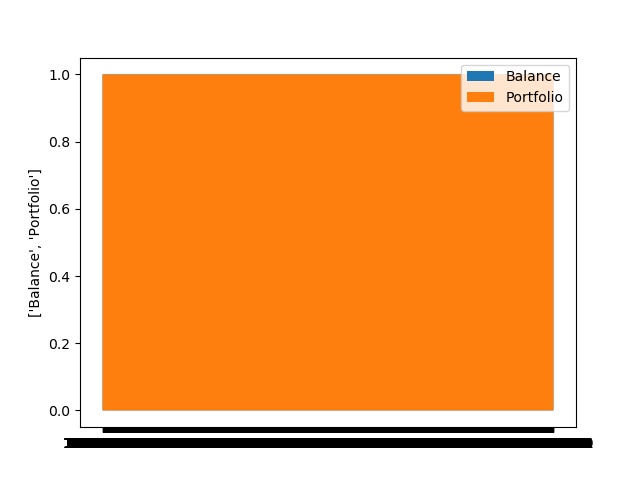
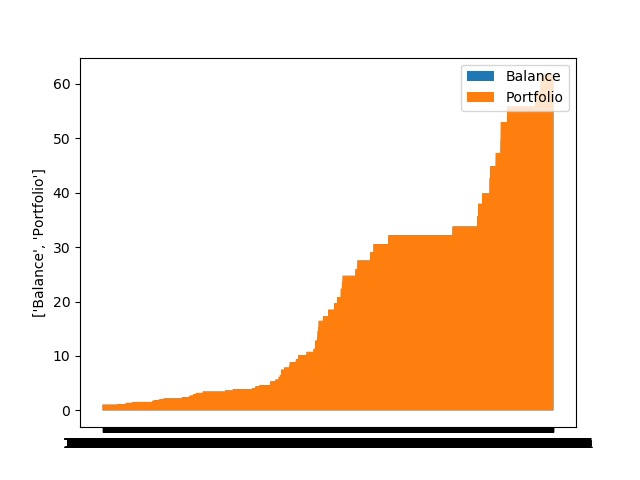
add interday transactions

diff --git a/stock_market.py b/stock_market.py
@@ -17,9 +17,11 @@ class StockProcess:
         if size == 'small':
             self.N_limit = 1000
             self.intraday_par = 1.05
+            self.interday_par = 1.5
         else:
             self.N_limit = 1000000
             self.intraday_par = 1.01
+            self.interday_par = 1.1
         self.N = 0
         self.income = 1
         self.owned_stocks = {}
@@ -51,8 +53,8 @@ class StockProcess:
             # Bypass empty CSVs
             except pd.errors.EmptyDataError:
                 pass
-            # if len(stock_data) > 1000:
-                # break
+            if len(stock_data) > 1000:
+                break
         # Concat DataFrames into one
         self.data = pd.concat(stock_data, axis=0, ignore_index=True)
 
@@ -115,16 +117,15 @@ class StockProcess:
                                 np.floor(self.income / daily['Open']),
                                 np.floor(daily['Limit'] / 2))
         daily['TotalProfit'] = daily['Num'] * daily['Profit']
-        daily = daily[daily['TotalProfit'] + self.income
-                      >= self.intraday_par * self.income]
+        daily = daily[daily['TotalProfit'] + self.portfolio[-1]
+                      >= self.intraday_par * self.portfolio[-1]]
         if daily.shape[0] >= 1:
             trans_info = [daily.iloc[0]['Date'],
                           daily.iloc[0]['Stock'], daily.iloc[0]['Num']]
             self.daily_transactions.append([*trans_info, 'buy-open'])
             self.daily_transactions.append([*trans_info, 'sell-close'])
-            # self.buy(*trans_info, tr_type='buy-open')
-            # self.sell(*trans_info, tr_type='sell-close')
-            print(day, self.income, self.N)
+            self.today_stocks.append(trans_info[1])
+            print(self.today_stocks)
 
     def intraday_reverse(self, day):
         # Filter Stocks that cannot be sold
@@ -145,15 +146,12 @@ class StockProcess:
                           daily.iloc[0]['Stock'], daily.iloc[0]['Num']]
             self.daily_transactions.append([*trans_info, 'buy-open'])
             self.daily_transactions.append([*trans_info, 'sell-close'])
-            print(day, self.income, self.N)
-
-    def non_intraday(self, day):
-        pass
 
     def ordered_transactions(self):
         priority1 = ['buy-open', 'sell-open']
         priority2 = ['buy-low', 'sell-high']
         priority3 = ['buy-close', 'sell-close']
+
         ordered_trans = []
         for trans in self.daily_transactions:
             if trans[3] in priority1:
@@ -165,10 +163,12 @@ class StockProcess:
             if trans[3] in priority3:
                 ordered_trans.append(trans)
         for trans in ordered_trans:
+            print(trans)
             if 'buy' in trans[3]:
                 self.buy(*trans)
             else:
                 self.sell(*trans)
+            print(self.income)
 
     def stats(self, day):
         # Calculate Portfolio per day
@@ -191,21 +191,22 @@ class StockProcess:
         day = min(self.intr_data['Date'])
         day = '1970-01-01'
         date_max = max(self.intr_data['Date'])
-        date_max = '1990-03-01'
+        date_max = '1980-01-01'
         while day <= date_max:
             if day.split('-')[1] == '01' and day.split('-')[2] == '01':
                 year = day.split('-')[0]
                 self.year_processing(year)
-            print(day)
-            self.owned_l = {k: v for (k, v) in self.owned_stocks.items() if v > 0}
+            self.today_stocks = []
+            self.daily_transactions = []
+            owned_ll = self.owned_stocks.items()
+            self.owned_l = {k: v for (k, v) in owned_ll if v > 0}
             self.owned_l = list(self.owned_l.keys())
             self.intr_data = self.intr_data[self.intr_data['Date'] >= day]
             self.daily = self.intr_data[self.intr_data['Date'] == day]
 
-            self.daily_transactions = []
             self.intraday(day)
+            self.check_yearly(day)
             self.intraday_reverse(day)
-            self.non_intraday(day)
             self.ordered_transactions()
             self.stats(day)
 
@@ -222,13 +223,41 @@ class StockProcess:
             stock_data = year_data[year_data['Stock'] == stock]
             if not stock_data.empty:
                 minim = min(stock_data['Low'])
+                stock_low = stock_data[stock_data['Low'] == minim]
+                stock_low = stock_low.iloc[-1]
+                date_min = stock_low['Date']
+                limit_min = stock_low['Limit']
                 maxim = max(stock_data['High'])
-                if minim * 2 <= maxim:
-                    print(stock,minim,maxim)
-                    trans_info = [stock_data.iloc[0]['Date'],
-                                  stock_data.iloc[0]['Stock']]
+                stock_high = stock_data[stock_data['High'] == maxim]
+                stock_high = stock_high.iloc[0]
+                date_max = stock_high['Date']
+                limit_max = stock_high['Limit']
+                if minim * 1.5 <= maxim and date_min < date_max:
+                    limit = min([limit_max, limit_min])
+                    trans_info = [stock, date_min, date_max, minim, maxim,
+                                  limit]
                     self.yearly_trans.append(trans_info)
-        print(self.yearly_trans)
+
+    def check_yearly(self, day):
+        found = False
+        for trans in self.yearly_trans:
+            stock, min_day, max_day, low, high, limit = trans
+            if day == min_day and not found:
+                if low >= self.income or stock in self.today_stocks:
+                    self.yearly_trans.remove(trans)
+                else:
+                    found = True
+                    amount = np.floor(self.income / low)
+                    if amount >= limit:
+                        amount = limit
+                    trans_info = [min_day, stock, amount, 'buy-low']
+                    self.daily_transactions.append(trans_info)
+            elif day == max_day:
+                amount = self.owned_stocks[stock]
+                if amount >= limit:
+                    amount = limit
+                trans_info = [max_day, stock, amount, 'sell-high']
+                self.daily_transactions.append(trans_info)
 
     def plot_diagrams(self):
         x = self.dates
@@ -242,6 +271,7 @@ class StockProcess:
         ax.fill_between(x, 0, y1)
         ax.set(ylabel=labels)
         ax.legend(labels)
+        fig.autofmt_xdate()
         fig.savefig("diagrams.png")
         plt.show()
 
@@ -255,8 +285,8 @@ class StockProcess:
         sequence.load_dataset()
         sequence.preprocessing()
         sequence.day_processing()
-        sequence.plot_diagrams()
         sequence.prepend_to_file()
+        sequence.plot_diagrams()
 
 
 sequence = StockProcess(size='small')
